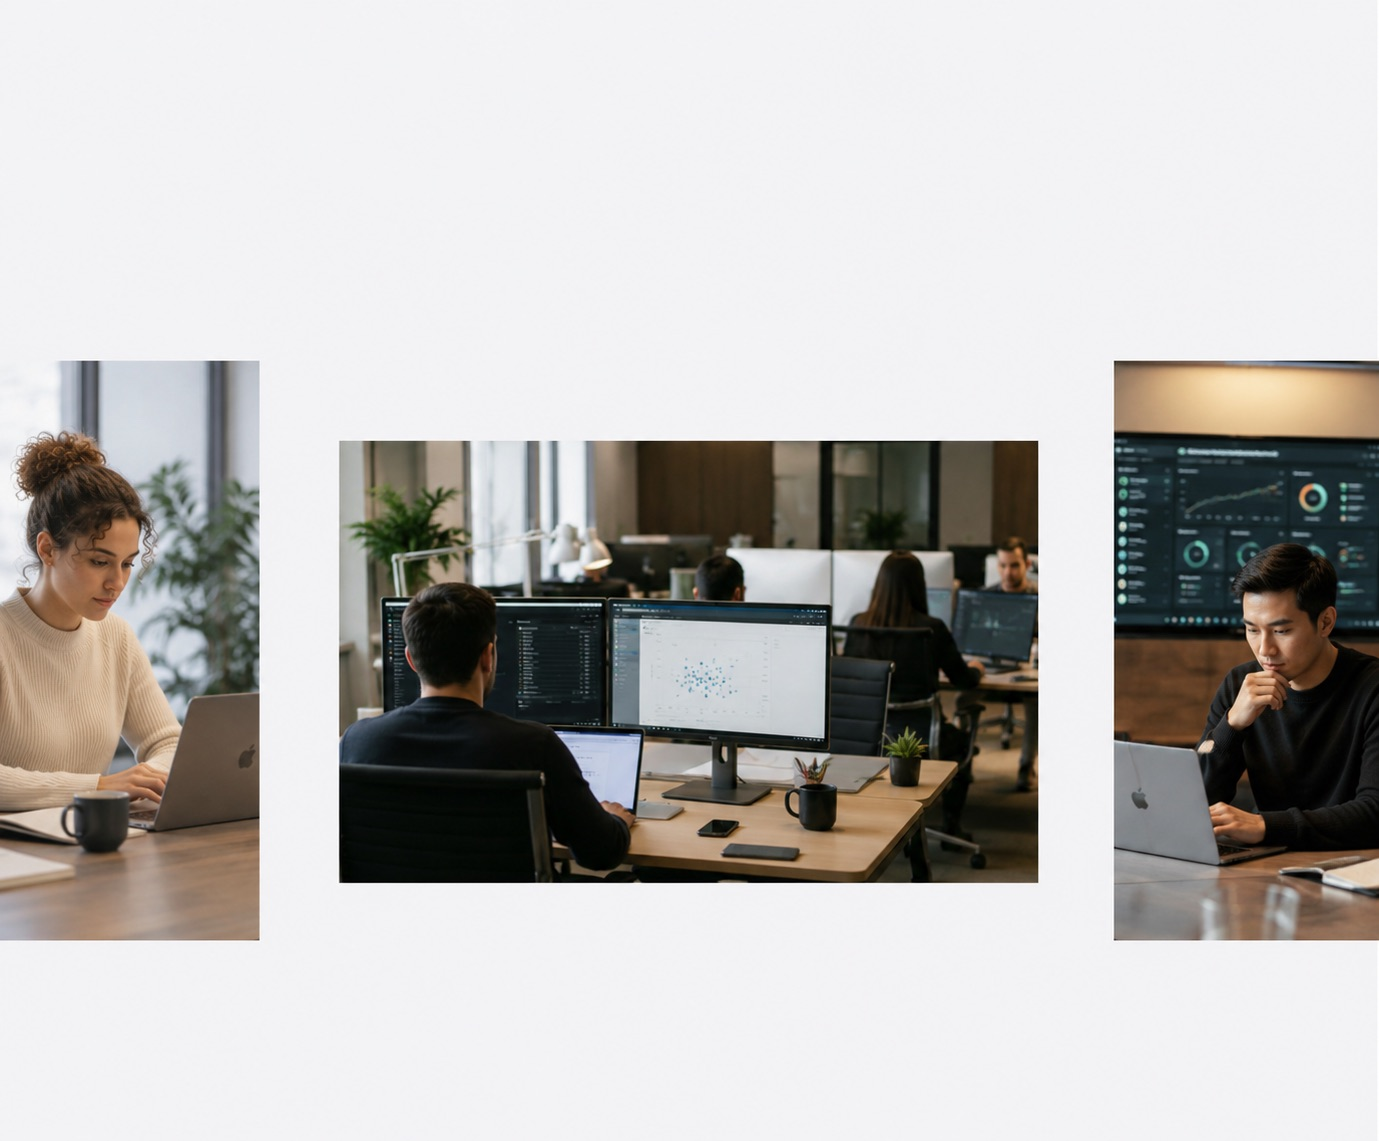
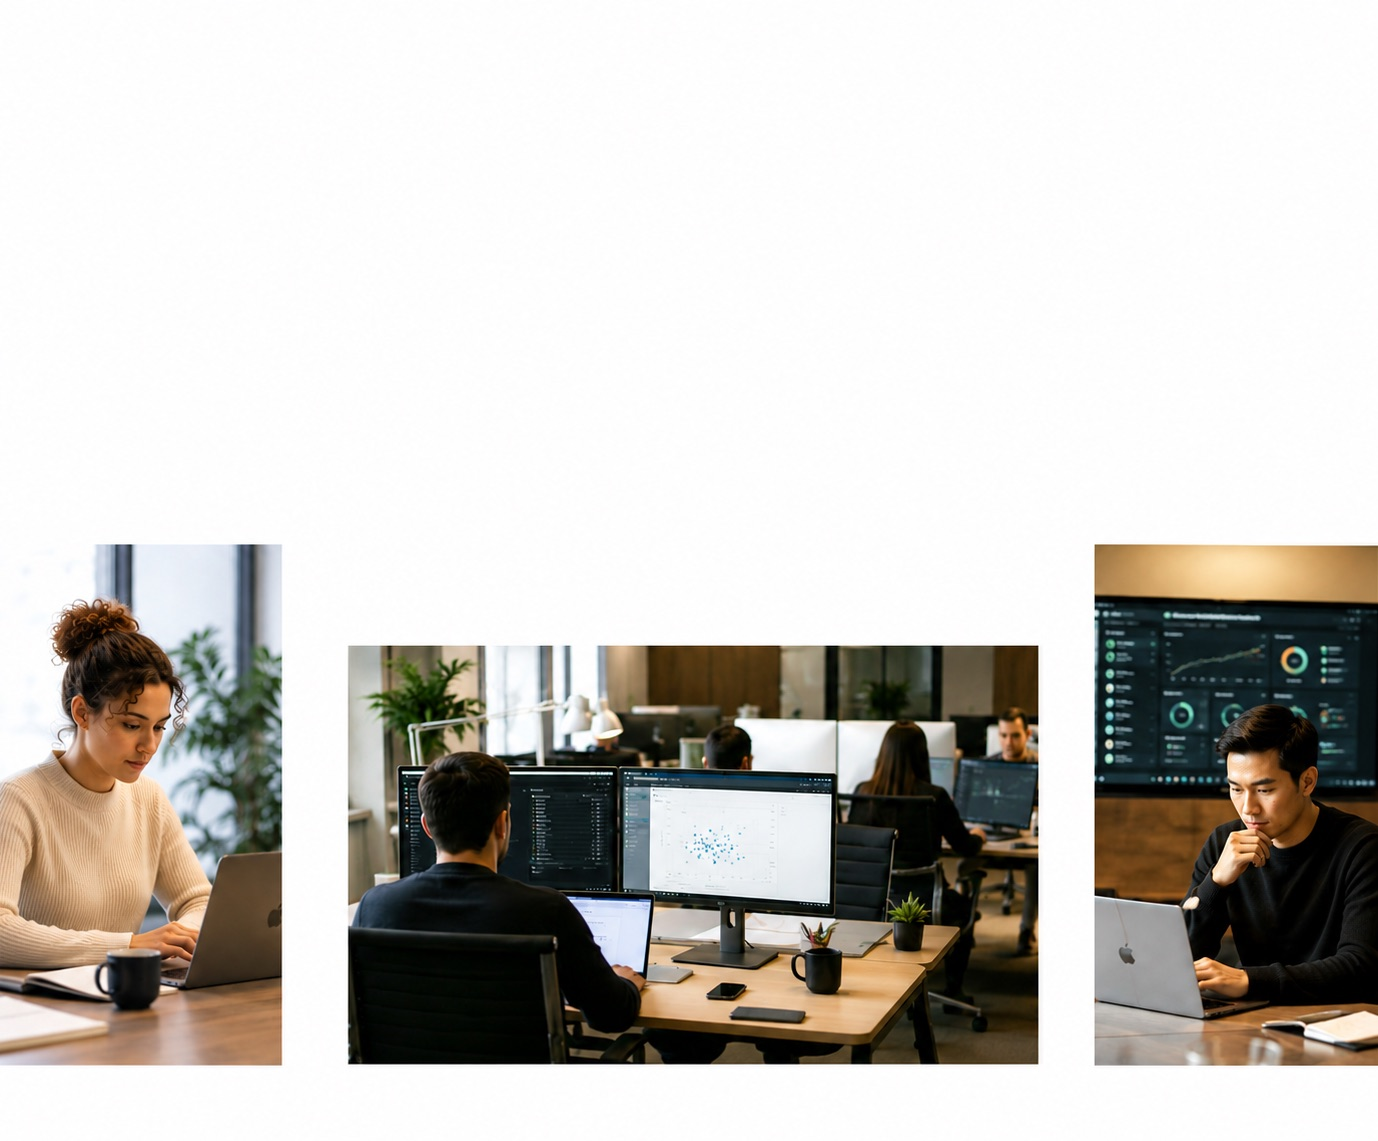
Corner minis on small cards, new white Pulse image, layout tuning
- Each small card gets a quiet product-true fragment bottom-right,
  no backgrounds: HarrisQuest types its survey question into a small
  search pill, NewIndex shows "#1 in AI answers ↑2", GEOPulse a
  rising sparkline, NewIntel a two-line live feed, Agent Cloud a
  little hub network. The full-width blue bars are gone.
- Pulse tile wears the new white-background triptych; tile colour
  now pure white
- Cloud section hugs the fine print (gap ~52px); fine print + footer
  at 1200px
- Nav is full width, padded 28px to match the tile kickers
- Fixed a ReferenceError from the refactor (voice() had been cut)

diff --git a/c.css b/c.css
@@ -26,7 +26,8 @@ body.vC .btn{font-family:var(--sans);letter-spacing:-.006em;text-transform:none}
 /* ── nav ──────────────────────────────────────────────────── */
 .nav{position:sticky;top:0;z-index:60;background:rgba(245,246,246,.78);
   backdrop-filter:saturate(1.8) blur(20px);-webkit-backdrop-filter:saturate(1.8) blur(20px)}
-.nav__in{max-width:1240px;margin:0 auto;height:52px;padding:0 clamp(18px,4vw,28px);
+/* full width, padded like the tile kickers (28px) */
+.nav__in{width:100%;height:52px;padding:0 28px;
   display:flex;align-items:center;gap:clamp(18px,3vw,34px)}
 .nav__brand{display:flex;align-items:flex-end;gap:7px;text-decoration:none;flex:none}
 .nav__brand svg{width:104px;height:16px}
@@ -153,8 +154,8 @@ body.vC .btn{font-family:var(--sans);letter-spacing:-.006em;text-transform:none}
 .tile--ink{background:linear-gradient(165deg,#012A3D,#00121C);color:var(--on-void)}
 .tile--sky{background:linear-gradient(170deg,#E4F1F6 0%,#F5FAFC 60%)}
 /* light photo background — text stays ink, image anchors low */
-.tile--photo{background-color:#F4F4F5;background-size:cover;background-repeat:no-repeat;
-  background-position:center calc(100% + 170px)}
+.tile--photo{background-color:#fff;background-size:cover;background-repeat:no-repeat;
+  background-position:center calc(100% + 40px)}
 
 /* a real image behind the text — a scrim keeps the type readable */
 .tile--img{background-size:cover;background-position:center;background-repeat:no-repeat}
@@ -268,7 +269,7 @@ body.vC .btn{font-family:var(--sans);letter-spacing:-.006em;text-transform:none}
    The reference layout: big showcases on top, cropped at the
    viewport edges and always drifting; smaller cards below,
    drifting the opposite way. Hover pauses a row. */
-.crail{margin:clamp(48px,7vh,86px) 0 clamp(56px,8vh,96px);overflow:hidden}
+.crail{margin:clamp(48px,7vh,86px) 0 0;overflow:hidden}
 .crail__t{margin:0 0 22px;text-align:center;
   font-family:var(--sans);font-weight:600;letter-spacing:-.03em;
   font-size:clamp(1.375rem,2.4vw,1.875rem)}
@@ -324,6 +325,40 @@ img.scard__img{position:absolute;inset:0;width:100%;height:100%;object-fit:cover
 .fcard__t .btn{margin-top:8px}
 .fcard--dark .btn{background:#fff;color:var(--navy)}
 .fcard--dark .btn:hover{background:#D8E6EC}
+/* ── corner minis on the small cards ──────────────────────────
+   Bottom-right, quiet, no backgrounds. Each is that product's own
+   gesture: a question being typed, a rank, a rising line, a feed. */
+.scard__mini{position:absolute;right:16px;bottom:14px;z-index:2;max-width:62%;
+  display:flex;justify-content:flex-end;color:var(--ink-3)}
+.mini-ask{display:inline-flex;align-items:center;gap:6px;max-width:100%;
+  border:1px solid var(--line-2);border-radius:var(--r-full);padding:6px 10px}
+.mini-ask b{font-family:var(--mono);font-weight:400;font-size:9px;letter-spacing:.02em;
+  white-space:nowrap;overflow:hidden;max-width:0;
+  animation:miniType 7s steps(44) infinite}
+@keyframes miniType{8%{max-width:0}56%,80%{max-width:200px}98%{max-width:0}}
+.mini-caret{width:1px;height:10px;background:var(--teal);flex:none;
+  animation:blinkCaret 1s steps(1) infinite}
+@keyframes blinkCaret{50%{opacity:0}}
+.mini-rank{display:inline-flex;align-items:center;gap:8px;text-align:left}
+.mini-rank em{font-style:normal;font-weight:600;font-size:1.5rem;letter-spacing:-.03em;
+  color:var(--ink)}
+.mini-rank > span{display:flex;flex-direction:column;font-family:var(--mono);font-size:9px;
+  letter-spacing:.05em;text-transform:uppercase}
+.mini-rank .up,.mini-spark .up{font-family:var(--mono);font-size:9px;font-weight:400}
+.mini-spark{display:inline-flex;flex-direction:column;align-items:flex-end;gap:3px;
+  color:var(--teal)}
+.mini-spark svg{width:96px;height:30px}
+.mini-feed{display:flex;flex-direction:column;gap:6px;text-align:left}
+.mini-feed > span{display:flex;align-items:center;gap:6px;font-family:var(--mono);
+  font-size:9px;letter-spacing:.03em;color:var(--ink-3);white-space:nowrap}
+.mini-feed em{font-style:normal;color:var(--ink-4)}
+.pulse--amber{background:var(--amber)}
+.mini-net{color:var(--ink-3)}
+.mini-net svg{width:84px;height:40px}
+.mini-net circle{fill:currentColor}
+.mini-net .mini-net__hub{fill:var(--teal)}
+.mini-net path{opacity:.5}
+
 /* pause/play for background videos — bottom right, out of the way */
 .vctl{position:absolute;right:16px;bottom:16px;z-index:3;width:34px;height:34px;
   border-radius:50%;display:grid;place-items:center;cursor:pointer;color:#fff;
@@ -422,14 +457,14 @@ img.scard__img{position:absolute;inset:0;width:100%;height:100%;object-fit:cover
 
 /* ── footer ───────────────────────────────────────────────── */
 /* fine print — the reference's footnote block, on the page background */
-.fine{padding:clamp(56px,8vh,88px) clamp(20px,4vw,28px) 20px}
-.fine__in{max-width:820px;margin:0 auto;color:var(--ink);
+.fine{padding:clamp(30px,4vh,44px) clamp(20px,4vw,28px) 20px}
+.fine__in{max-width:1200px;margin:0 auto;color:var(--ink);
   font-size:var(--t-sm);line-height:1.75}
 .fine__in p{margin:0 0 22px}
 .fine__in ol{margin:0 0 22px;padding-left:20px;display:flex;flex-direction:column;gap:16px}
 
 .foot{padding:0 clamp(20px,4vw,28px) 48px}
-.foot__in{max-width:820px;margin:0 auto}
+.foot__in{max-width:1200px;margin:0 auto}
 .foot__cols{display:grid;grid-template-columns:repeat(5,1fr);gap:30px 24px;
   padding:38px 0 42px;border-top:1px solid var(--line)}
 .foot__col{display:flex;flex-direction:column;align-items:flex-start;gap:12px}

diff --git a/c.js b/c.js
@@ -205,6 +205,10 @@ $('#concReset').addEventListener('click', () => {
    Art is PLACEHOLDER until the real images land. */
 
 const BIG = ['koalifyed', 'bera', 'doreel', 'newvoices'];
+/* a small centred voice agent, mid-sentence */
+const voice = () => `<div class="ca-voice">${Array.from({ length: 7 },
+  (_, i) => `<i style="--i:${i}"></i>`).join('')}</div>`;
+
 const BIGART = {
   newvoices: ['fcard--dark',  voice()],
   bera:      ['fcard--img',
@@ -214,37 +218,32 @@ const BIGART = {
   koalifyed: ['fcard--teal fcard--video',
     `<video class="fcard__video" src="./assets/img/imai.mp4" autoplay muted loop playsinline></video>`],
 };
-const SMART = {
+/* small cards: a compact product-true dashboard fragment sits in the
+   bottom-right corner — no backgrounds, never fighting the text */
+const SMIMG = {
   'people-platform': `<img class="scard__img" src="./assets/img/numetrix.webp" alt="">`,
-  newindex:          rows([92, 68, 50, 34]),
-  geopulse:          rows([88, 70, 54, 36]),
-  newintel:          rows([74, 90, 52, 66]),
-  'agent-cloud':     dotfield(),
-  harrisquest:       bars([41, 29, 18, 12, 26, 35, 48, 58]),
 };
-function bars(h)  { return `<div class="ca-bars">${h.map(v => `<i style="--h:${v}%"></i>`).join('')}</div>`; }
-function rows(w)  { return `<div class="ca-rows">${w.map(v => `<i style="--w:${v}%"></i>`).join('')}</div>`; }
-function wave()   { return `<div class="ca-wave">${Array.from({ length: 30 },
-  (_, i) => `<i style="--h:${16 + Math.round(Math.abs(Math.sin(i * 0.72)) * 74)}%"></i>`).join('')}</div>`; }
-function dotfield(){ return `<div class="ca-dots"></div>`; }
-/* a thin-line wireframe world, in slow full rotation */
-function globe() {
-  /* a dense, even lat/long grid — the classic wireframe globe */
-  const mer = Array.from({ length: 9 }, (_, i) => `<i style="--a:${i * 20}deg"></i>`).join('');
-  const lat = [0, 22.5, 45, 67.5, -22.5, -45, -67.5].map(phi => {
-    const rad = phi * Math.PI / 180;
-    const d = (Math.cos(rad) * 100).toFixed(1);
-    const z = (Math.sin(rad) * 0.5).toFixed(3);
-    return `<b style="--d:${d}%;--z:${z}"></b>`;
-  }).join('');
-  return `<span class="ca-globe"><span class="ca-globe__tilt">
-    <span class="ca-globe__spin">${mer}${lat}</span></span></span>`;
-}
-
-/* a small centred voice agent, mid-sentence */
-function voice(){ return `<div class="ca-voice">${Array.from({ length: 7 },
-  (_, i) => `<i style="--i:${i}"></i>`).join('')}</div>`; }
-function film()   { return `<div class="ca-film">${[1, .74, .5, .3].map(o => `<i style="--o:${o}"></i>`).join('')}</div>`; }
+const SMMINI = {
+  harrisquest: `<span class="mini-ask">
+      <svg viewBox="0 0 12 12" width="9" height="9"><circle cx="5.2" cy="5.2" r="3.6" fill="none" stroke="currentColor" stroke-width="1.4"/><path d="M8 8l2.6 2.6" stroke="currentColor" stroke-width="1.4" stroke-linecap="round"/></svg>
+      <b>Would buyers pay more for repairability?</b><i class="mini-caret"></i></span>`,
+  newindex: `<span class="mini-rank"><em>#1</em>
+      <span>in AI answers<b class="up">↑ 2 this week</b></span></span>`,
+  geopulse: `<span class="mini-spark">
+      <svg viewBox="0 0 96 30" aria-hidden="true"><path d="M2,26 L18,22 L34,24 L50,15 L66,17 L82,7 L94,4"
+        fill="none" stroke="currentColor" stroke-width="1.6" stroke-linecap="round" stroke-linejoin="round"/></svg>
+      <b class="up">+3 positions</b></span>`,
+  newintel: `<span class="mini-feed">
+      <span><i class="pulse"></i>Rival cut prices 4%<em>2h</em></span>
+      <span><i class="pulse pulse--amber"></i>New creator campaign<em>9h</em></span></span>`,
+  'agent-cloud': `<span class="mini-net">
+      <svg viewBox="0 0 84 40" aria-hidden="true">
+        <path d="M42,20 L10,8 M42,20 L20,34 M42,20 L64,6 M42,20 L74,26 M42,20 L58,36" stroke="currentColor" stroke-width="1"/>
+        <circle cx="10" cy="8" r="2.6"/><circle cx="20" cy="34" r="2.6"/><circle cx="64" cy="6" r="2.6"/>
+        <circle cx="74" cy="26" r="2.6"/><circle cx="58" cy="36" r="2.6"/>
+        <circle cx="42" cy="20" r="4.4" class="mini-net__hub"/>
+      </svg></span>`,
+};
 
 const P = id => PRODUCTS.find(p => p.id === id);
 
@@ -257,10 +256,10 @@ const bigCard = p => {
       <em class="btn btn--sm">Learn more</em></span>
   </button>`;
 };
-const SMCLS = { 'people-platform': 'scard--img' };
-const smCard = p => `<button class="scard ${SMCLS[p.id] || ''}" data-id="${p.id}">
-    <span class="scard__art">${SMART[p.id] || dotfield()}</span>
+const smCard = p => `<button class="scard ${SMIMG[p.id] ? 'scard--img' : ''}" data-id="${p.id}">
+    ${SMIMG[p.id] ? `<span class="scard__art">${SMIMG[p.id]}</span>` : ''}
     <span class="scard__t"><b>${esc(p.name)}</b><i>${esc(p.line)}</i></span>
+    ${SMMINI[p.id] ? `<span class="scard__mini">${SMMINI[p.id]}</span>` : ''}
     <em class="btn btn--xs">Learn more</em>
   </button>`;
 
